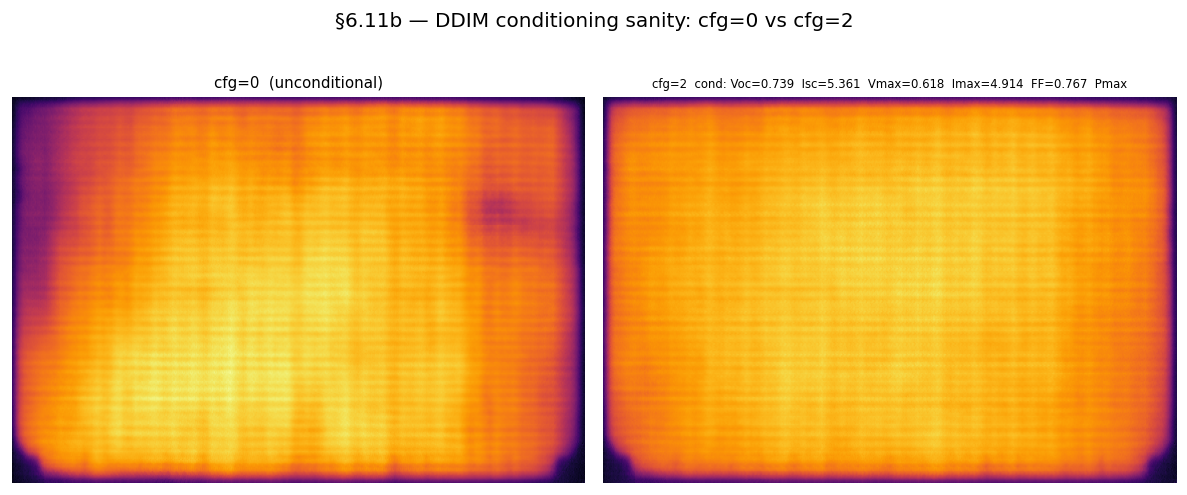
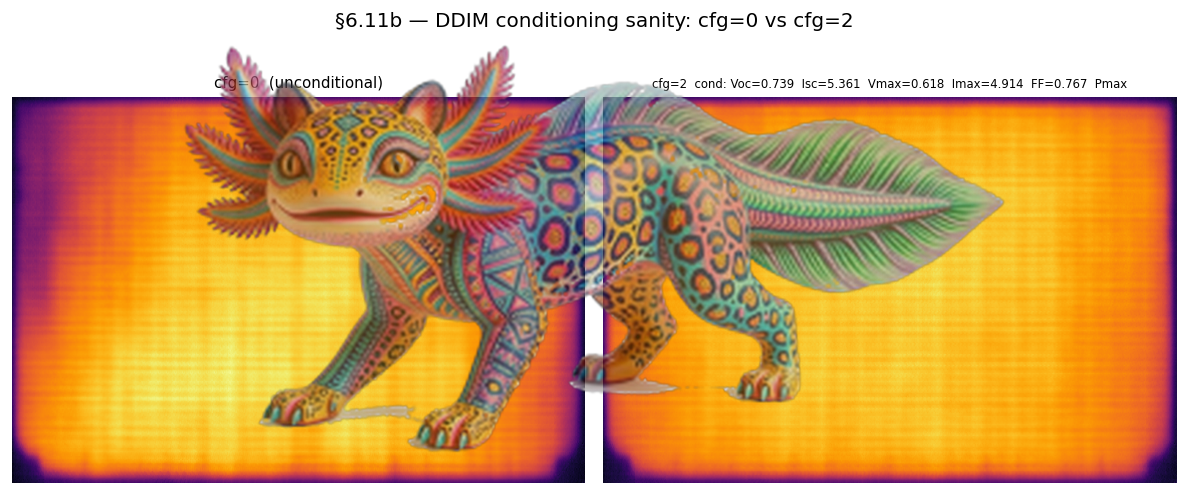
Add files via upload

Changed region(s): [[0.1559, 0.0909, 0.8416, 0.9091]]

diff --git a/figures/Drawing 2026-07-06 14.10.46.excalidraw.md b/figures/Drawing 2026-07-06 14.10.46.excalidraw.md
@@ -1,0 +1,14 @@
+---
+
+excalidraw-plugin: parsed
+tags: [excalidraw]
+
+---
+==⚠  Switch to EXCALIDRAW VIEW in the MORE OPTIONS menu of this document. ⚠== You can decompress Drawing data with the command palette: 'Decompress current Excalidraw file'. For more info check in plugin settings under 'Saving'
+
+
+## Drawing
+```compressed-json
[1 lines of base64/hex data omitted]
+```
+%%